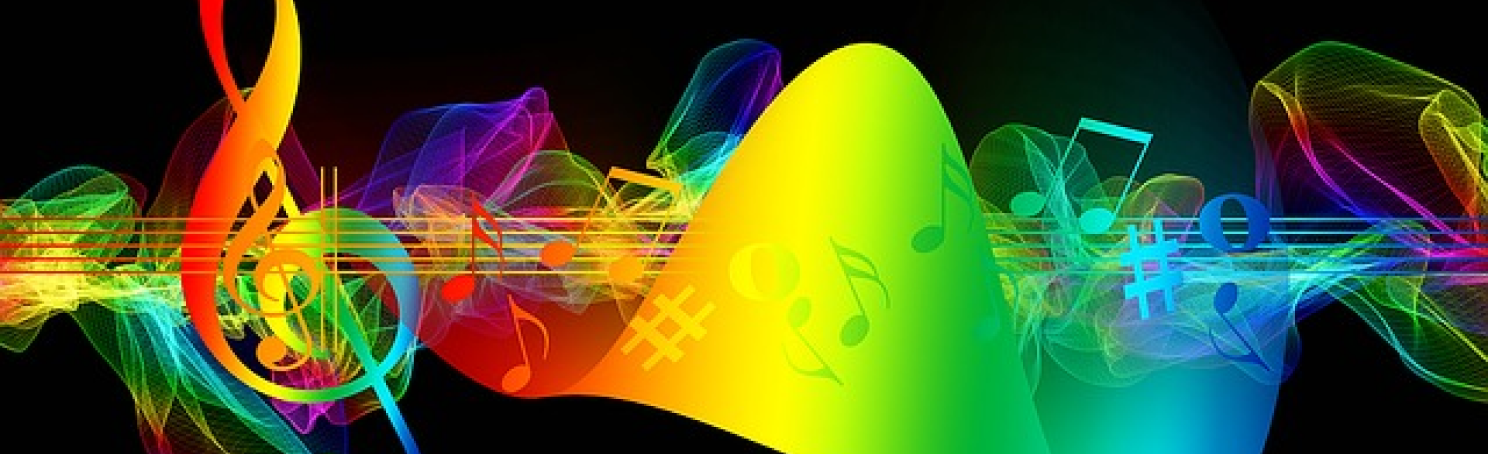
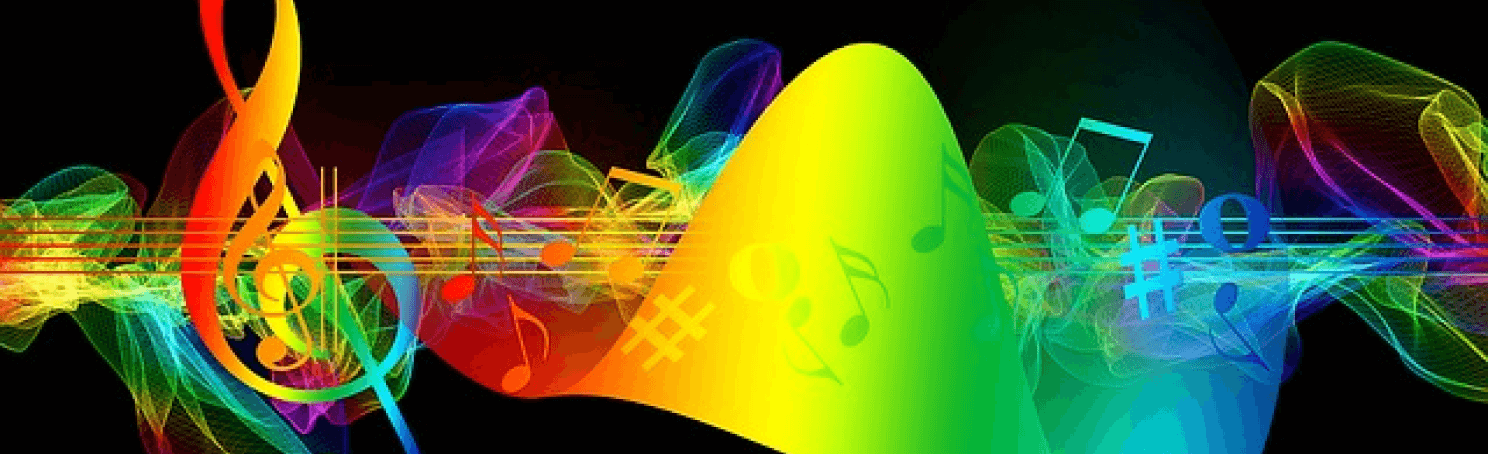
fix: Image optimisation

diff --git a/src/components/Search.js b/src/components/Search.js
@@ -5,9 +5,14 @@ import Banner from "../images/bannerSearch.png";
 import "./Search.css";
 import spotifyContext from "../spotifyContext";
 import SearchItem from "./SearchItem";
+import Song from "../Song";
+import { useDataLayerValue } from "../DataLayer";
+import SyncLoader from "react-spinners/SyncLoader";
+
 //import SyncLoader from "react-spinners/SyncLoader";
 
 function Search() {
+	const [{ newrelease }] = useDataLayerValue();
 	const [search, setSearch] = useState("");
 	//const [artists, setArtists] = useState(null);
 	const [tracks, setTracks] = useState(null);
@@ -47,26 +52,44 @@ function Search() {
 					onChange={(e) => setSearch(e.target.value)}
 				/>
 			</div>
-			<div className="search_body">
-				<div className="label_title">
-					<div className="song_photo"></div>
-					<div className="song_title">Title</div>
-					<div className="song_artist">Artist</div>
-					<div className="song_album">Album</div>
+			{search === "" ? (
+				<div className="bodyList">
+					{newrelease ? (
+						newrelease.albums.items.map((album, index) => (
+							<Song
+								artist={album.artists[0].name}
+								bg={album.images[1] && album.images[1].url}
+								key={index}
+								title={album.name}
+								uri={album.uri}
+							/>
+						))
+					) : (
+						<SyncLoader color="#fff" />
+					)}
 				</div>
-				<hr />
-				{tracks &&
-					tracks.map((track, index) => (
-						<SearchItem
-							track={track.name}
-							artist={track.artists[0].name}
-							album={track.album.name}
-							image={track.album.images[2].url}
-							uri={track.uri}
-							key={index}
-						/>
-					))}
-			</div>
+			) : (
+				<div className="search_body">
+					<div className="label_title">
+						<div className="song_photo"></div>
+						<div className="song_title">Title</div>
+						<div className="song_artist">Artist</div>
+						<div className="song_album">Album</div>
+					</div>
+					<hr />
+					{tracks &&
+						tracks.map((track, index) => (
+							<SearchItem
+								track={track.name}
+								artist={track.artists[0].name}
+								album={track.album.name}
+								image={track.album.images[2].url}
+								uri={track.uri}
+								key={index}
+							/>
+						))}
+				</div>
+			)}
 		</div>
 	);
 }

diff --git a/src/Home.css b/src/Home.css
@@ -28,10 +28,10 @@
 	display: flex;
 	flex-direction: column;
 	justify-content: space-between;
-	width: 180px;
-	height: 250px;
+	width: 150px;
+	height: 220px;
 	margin: 10px;
-	background: #212325;
+	background: #252727b6;
 	border-radius: 15px;
 	padding: 10px;
 	transition: 200ms ease-in all;
@@ -43,8 +43,8 @@
 
 .song_img {
 	position: relative;
-	width: 180px;
-	height: 180px;
+	width: 150px;
+	height: 150px;
 	border-radius: 10px;
 }
 
@@ -69,4 +69,25 @@
 
 .song_footer > svg:hover {
 	color: #fff;
+}
+
+@media screen and (max-width: 730px) {
+	.banner {
+		display: block;
+		height: auto;
+	}
+
+	.banner img {
+		display: none;
+	}
+
+	.song_container {
+		width: 120px;
+		height: 200px;
+	}
+
+	.song_img {
+		width: 120px;
+		height: 130px;
+	}
 }

diff --git a/src/Sidebar.js b/src/Sidebar.js
@@ -31,15 +31,17 @@ function Sidebar() {
 				<br />
 				<strong className="sidebarTitle">Playlist</strong>
 				<hr />
-				{playlists &&
-					playlists.items &&
-					playlists.items.map((playlist, index) => (
-						<SidebarOption
-							key={index}
-							title={playlist.name}
-							link="./playlist"
-						/>
-					))}
+				<div className="playlist_list">
+					{playlists &&
+						playlists.items &&
+						playlists.items.map((playlist, index) => (
+							<SidebarOption
+								key={index}
+								title={playlist.name}
+								link="./playlist"
+							/>
+						))}
+				</div>
 
 				{user && <div className="account">{user.display_name}</div>}
 			</div>

diff --git a/src/Sidebar.css b/src/Sidebar.css
@@ -33,3 +33,30 @@
 	bottom: 30px;
 	z-index: 3;
 }
+
+@media only screen and (max-width: 915px) {
+	.sidebar_container {
+		background: #272727;
+		width: auto;
+	}
+
+	.sidebar {
+		display: flex;
+		align-items: center;
+		justify-content: space-between;
+		position: relative;
+		background: #272727;
+	}
+
+	.sidebarTitle,
+	hr,
+	.playlist_list {
+		display: none;
+	}
+}
+
+@media only screen and (max-width: 515px) {
+	.sidebarOptionIcon {
+		display: none;
+	}
+}

diff --git a/src/spotify.js b/src/spotify.js
@@ -1,5 +1,5 @@
 export const authEndpoint = "https://accounts.spotify.com/authorize";
-const redirectUri = window.location.origin; //"http://localhost:3000"; //"https://auditica.vercel.app";
+const redirectUri = window.location.origin;
 const clientID = "6fabc1dae45949e0b89128fb08d4061d";
 
 const scopes = [

diff --git a/src/components/Search.css b/src/components/Search.css
@@ -25,3 +25,10 @@
 .search_body {
 	padding: 20px 10px;
 }
+
+@media screen and (max-width: 730px) {
+	.search_bar {
+		position: relative;
+		margin: 10px;
+	}
+}

diff --git a/src/SidebarOption.css b/src/SidebarOption.css
@@ -24,3 +24,9 @@
 	margin-top: 10px;
 	margin-left: 20px;
 }
+
+@media only screen and (max-width: 550px) {
+	.sidebarOption {
+		display: none;
+	}
+}

diff --git a/src/Player.css b/src/Player.css
@@ -7,3 +7,9 @@
 	width: 100%;
 	bottom: 0;
 }
+
+@media only screen and (max-width: 915px) {
+	.player-body {
+		display: block;
+	}
+}
